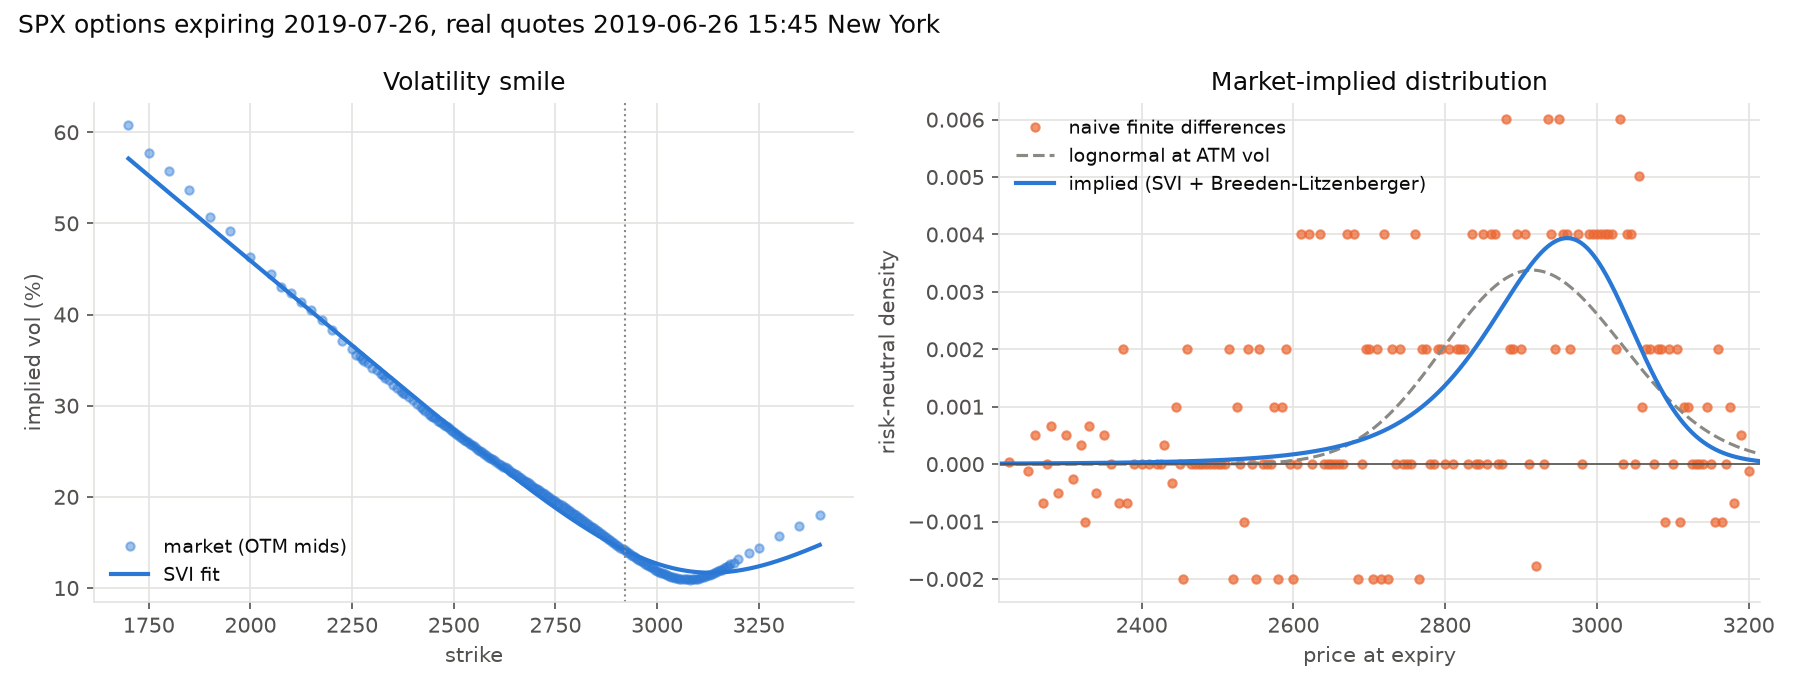
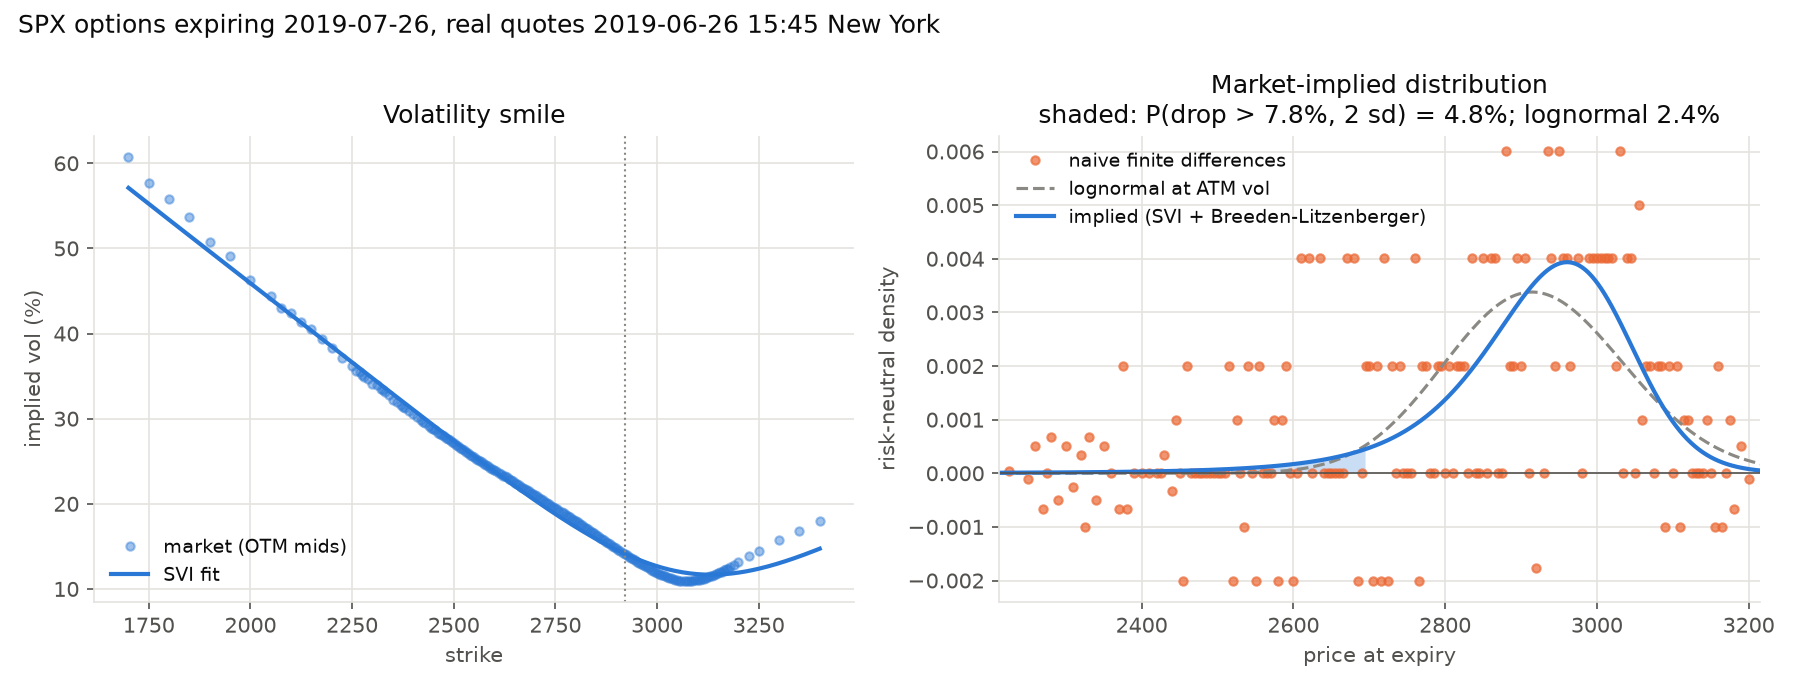
Show the crash probability on the density chart
The headline result (market vs lognormal probability of a 2-sd drop) was
only in the README caption. The density panel now shades the tail below the
crash level and states both probabilities in its title, computed by the same
run; a text box inside the axes was tried first and covered data points.
demo.png and spx_2019.png regenerated; spx_live.png keeps its 14 October
rendering because live quotes cannot be re-fetched.
Test: the title shows the computed probabilities.

diff --git a/tests/test_rnd.py b/tests/test_rnd.py
@@ -11,7 +11,7 @@ import pandas as pd
 sys.path.insert(0, os.path.dirname(os.path.dirname(os.path.abspath(__file__))))
 sys.path.insert(0, os.path.join(os.path.dirname(os.path.abspath(__file__)), "data"))
 from rnd.core import analyze, black, calendar_violation, density, implied_vol, lognormal_pdf, moments, parity_forward
-from rnd.__main__ import fit_surface
+from rnd.__main__ import fit_surface, plot
 from download import spxw_2019
 from rnd.data import HESTON, heston_call, heston_cf, heston_pdf, load_cboe_csv, load_chain, synthetic_chain
 
@@ -232,6 +232,19 @@ def test_surface_cli():
         assert "calendar no-arbitrage holds" in ok.stdout, ok.stdout
         assert sorted(os.listdir(tmp)) == ["july.csv", "rnd_surface.png", "short.csv"]
         assert short.returncode == 1 and "at least two fitted expiries" in short.stderr, short.stdout + short.stderr
+
+
+def test_chart_states_computed_crash_probability():
+    """The density panel's title carries the headline numbers; they must be the computed ones."""
+    import matplotlib.pyplot as plt
+    chain, T, _ = synthetic_chain()
+    r = analyze(chain, T)
+    with tempfile.TemporaryDirectory() as tmp:
+        plot(r, "test", os.path.join(tmp, "c.png"))
+        title = plt.gcf().axes[1].get_title()
+        assert os.path.getsize(os.path.join(tmp, "c.png")) > 10_000
+    plt.close("all")
+    assert f"= {r['p_crash']:.1%}; lognormal {r['p_crash_lognormal']:.1%}" in title, title
 
 
 if __name__ == "__main__":

diff --git a/rnd/__main__.py b/rnd/__main__.py
@@ -52,11 +52,15 @@ def plot(r, title, out, truth=None):
     if truth is not None:
         a2.plot(Kq, truth, color=INK, lw=1, label="true density")
     a2.plot(Kq, q, color=BLUE, lw=2, label="implied (SVI + Breeden-Litzenberger)")
+    tail = Kq <= r["crash_level"]
+    a2.fill_between(Kq[tail], q[tail], color=BLUE, alpha=0.25, lw=0)
     a2.axhline(0, color=MUTED, lw=0.8)
     a2.set(xlim=(lo, hi), ylim=(min(0, np.percentile(qn, 5)) * 1.2, q.max() * 1.6),
-           xlabel="price at expiry", ylabel="risk-neutral density", title="Market-implied distribution")
-    for a in (a1, a2):
-        a.legend(frameon=False, fontsize=9)
+           xlabel="price at expiry", ylabel="risk-neutral density",
+           title=f"Market-implied distribution\nshaded: P(drop > {1 - r['crash_level'] / F:.1%}, 2 sd) = "
+                 f"{r['p_crash']:.1%}; lognormal {r['p_crash_lognormal']:.1%}")
+    a1.legend(frameon=False, fontsize=9)
+    a2.legend(frameon=False, fontsize=9, loc="upper left")
     fig.suptitle(title, x=0.01, ha="left", fontsize=12, color=INK)
     fig.tight_layout()
     fig.savefig(out, dpi=150, facecolor="white")
